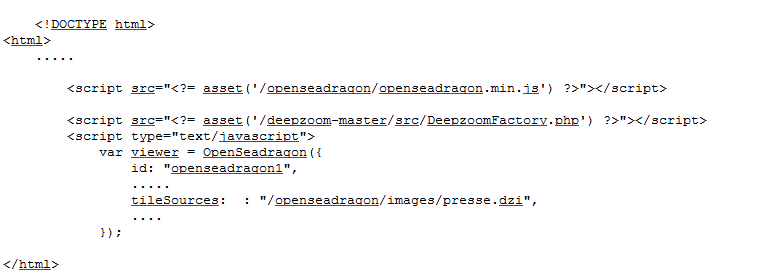
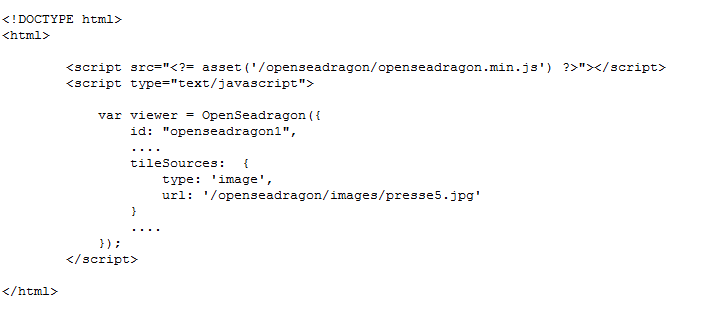
modification oopenseadragon

diff --git a/report/4_conception/input/openseadragon.tex b/report/4_conception/input/openseadragon.tex
@@ -1,21 +1,25 @@
 \newpage
 \section{Visionneuse Openseadragon}
 \label{sec:seadragon}
-OpenSeadragon est une visionneuse d’image haute résolution et customisable, open source adaptée aux périphériques desktop et mobiles, ce qui convient à notre projet. Nous utiliserons la version 2.1.0 d'Openseadragon. Openseadragon est un pluggin implémenté en Javascript. La visionneuse sera insérée dans la page HTML de consultation de documents à travers un script comme l'illustre la figure \ref{seadragon}. Pour notre projet nous allons utiliser les fonctionnalités d'Openseadragon suivantes : 
+OpenSeadragon est une visionneuse d’image haute résolution et customisable, open source adaptée aux périphériques desktop et mobiles, ce qui convient à notre projet. Nous utiliserons la version 2.1.0 d'Openseadragon. Openseadragon est un pluggin implémenté en Javascript. La visionneuse sera insérée dans la page HTML de consultation de documents à travers un script comme l'illustre la figure \ref{seadragon}. La figure \ref{seadragonarchi} illustre la communication entre Openseadragon et la base de données qui passe par Larvel pour quelques spécifications fonctionnelles du projet. Nous allons utiliser les fonctionnalités d'Openseadragon suivantes : 
 \begin{itemize}
-	\item l'affichage de l'image associée au document : Opensedragon prend en charge plusieurs formatq d'images. Dans notre cas, les images de presse anciennes étant très grandes, l'utilisation du format d'image simple(JPG,PNG,...) rend la visionneuse moins performantes. Nous allons donc utiliser un outils, PHP Deep Zoom Tools qui permet d'avoir des images tuilées au format .dzi(Deep Zoom Image), beaucoup plus performantes avec Openseadragon.
-	\item les boutons de zoom/dezoom 
-	\item les boutons de naviguation, rotation
-	\item les overlays : utiles pour délimiter les articles, ou rajouter des tags par exemple. Ici nous rajouterons à Openseadragon le pluggin (javascript égalment) SVG-overlay qui permet de réaliser ces overlays
+	\item l'affichage de l'image associée au document : Laravel  récupère à l'aide d'une requette les informations concernant le document et l'image correspondante sera transmise à Openseadragon pour l'affichage. Opensedragon prend en charge plusieurs formats d'images. Dans notre cas, les images de presse anciennes étant très grandes, l'utilisation du format d'image simple(JPG,PNG,...) rend la visionneuse moins performantes. Nous allons donc utiliser un outils, PHP Deep Zoom Tools qui permet d'avoir des images tuilées au format .dzi(Deep Zoom Image), beaucoup plus performantes avec Openseadragon. La conversion en fichier .dzi sera effectuée en une fois pour toutes les images des documents à l'aide d'un script avant d'être stockées dans les bases de données.
+	\item les boutons de zoom/dezoom, rotation 
+	\item les boutons de naviguation 
+	\item les gestionnaires d'événements :  nous allons utiliser cette fonctionnalité pour gérer l'affichage des informations concernant les articles sur une page. Lorsque l'utilisateur clique sur un article d'une page, un script permettra au gestionnaire d'événement d'Opensaedragon de récuperer les coordonnées de la souris qui pourront permettre d'identifier sur quel article l'utilisateur a cliqué et ainsi afficher les bonnes informations.
 	  \begin{figure}[H]
         \centering
         \includegraphics[width=\textwidth]{figure/osd.png}
-            \caption{Architecture globale de la plateforme}
+            \caption{Appel à Openseadragon}
             \label{seadragon}
     \end{figure}
 	
-	
-
+		  \begin{figure}[H]
+        \centering
+        \includegraphics[width=\textwidth]{figure/osdarchi.png}
+            \caption{Communication Openseadragon/Laravel/MongoDB}
+            \label{seadragonarchi}
+    \end{figure}
 
 
 
